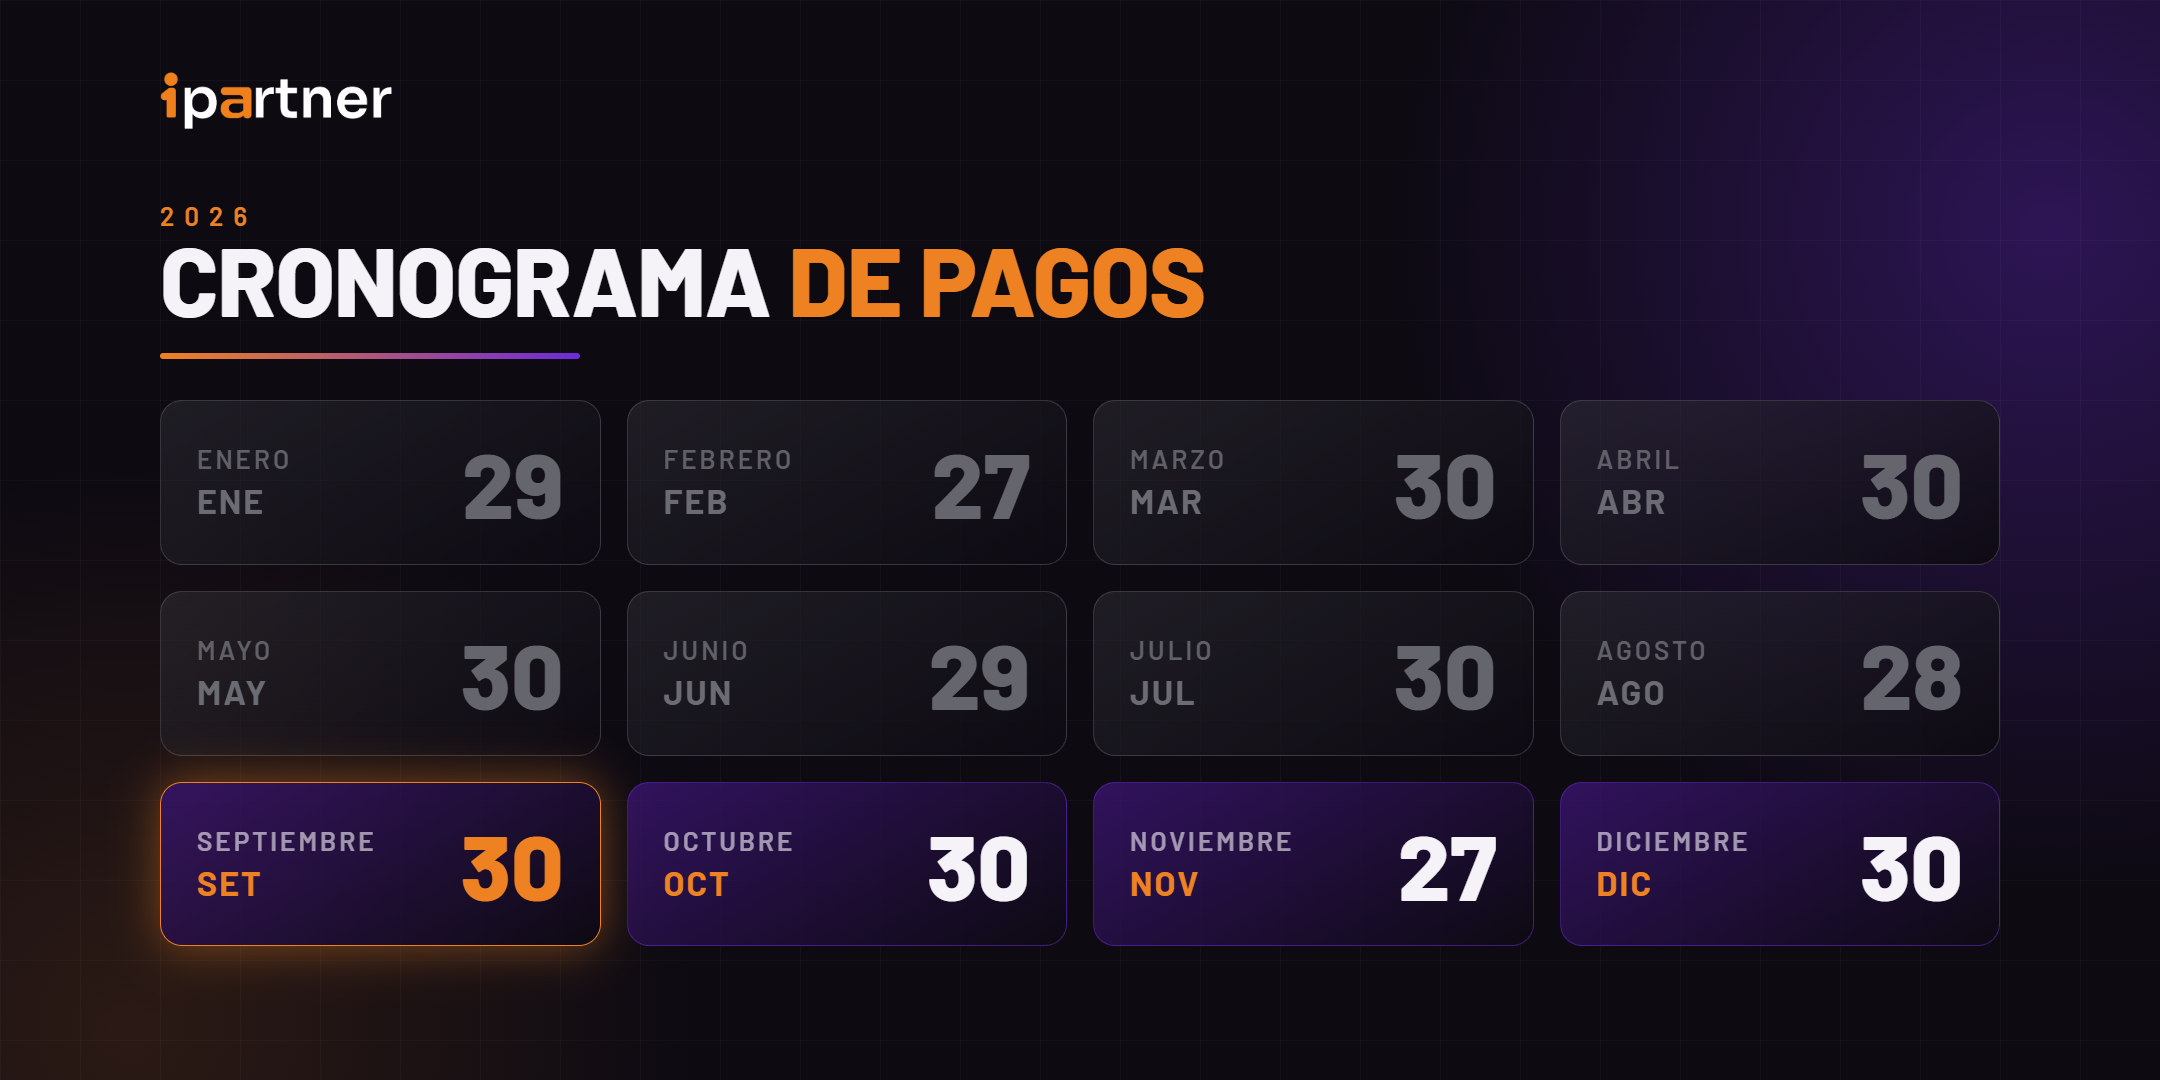
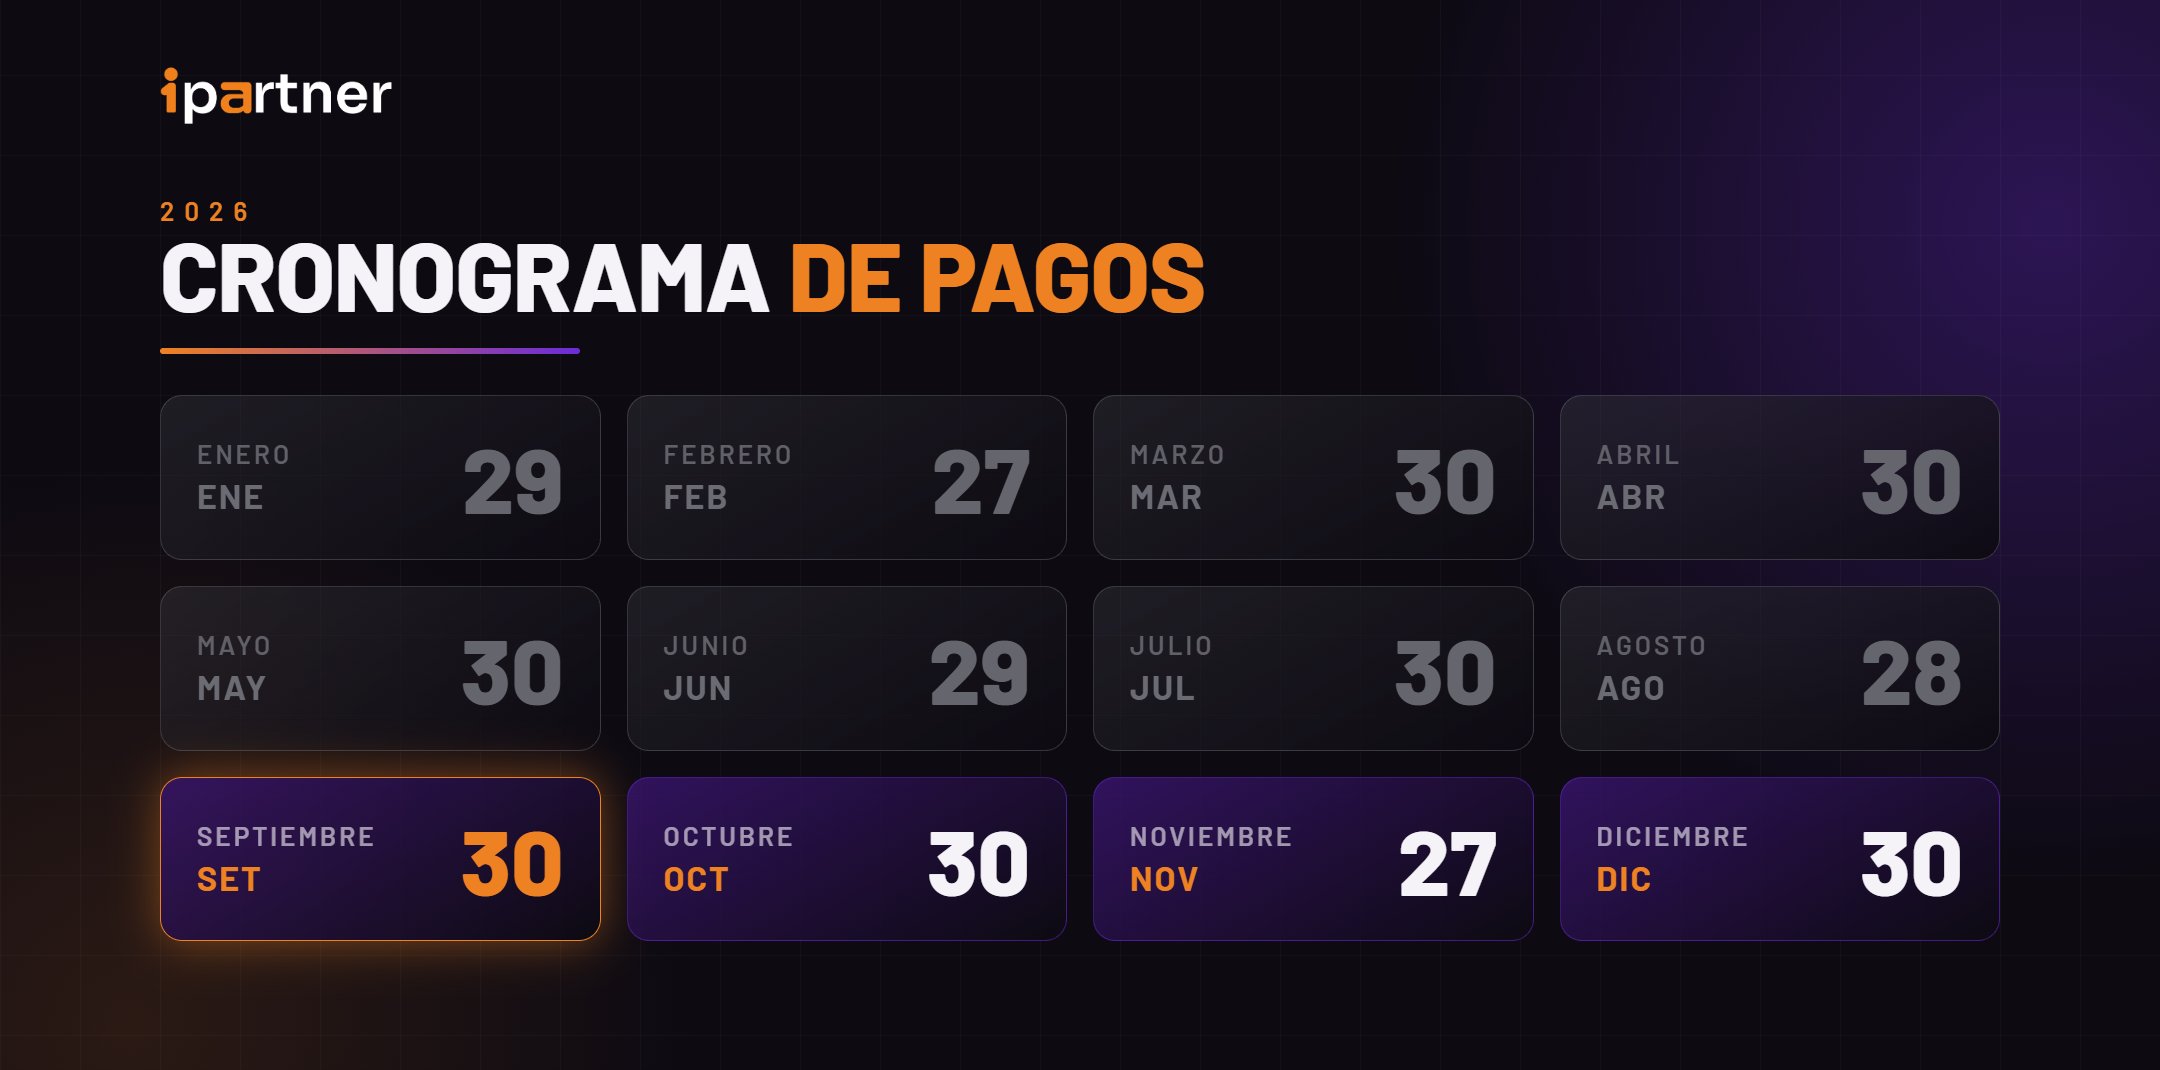
Add files via upload

diff --git a/index.html b/index.html
@@ -205,7 +205,7 @@ body.tab-ip .livechip{top:2vh; left:2.2vw;}
   border-radius:0; background:#05030f; box-shadow:none;}
 .ip-slide.vid video{width:100%; height:100%; object-fit:cover; display:block; background:#05030f;}
 .ip-slide.vid img{position:relative; z-index:2; width:100%; height:100%;
-  object-fit:contain; display:block;}
+  object-fit:cover; display:block;}
 .ip-slide.vid .vid-bg{position:absolute; inset:-6%; z-index:1;
   background-position:center; background-size:cover; background-repeat:no-repeat;
   filter:blur(34px) brightness(.5) saturate(1.1);}
